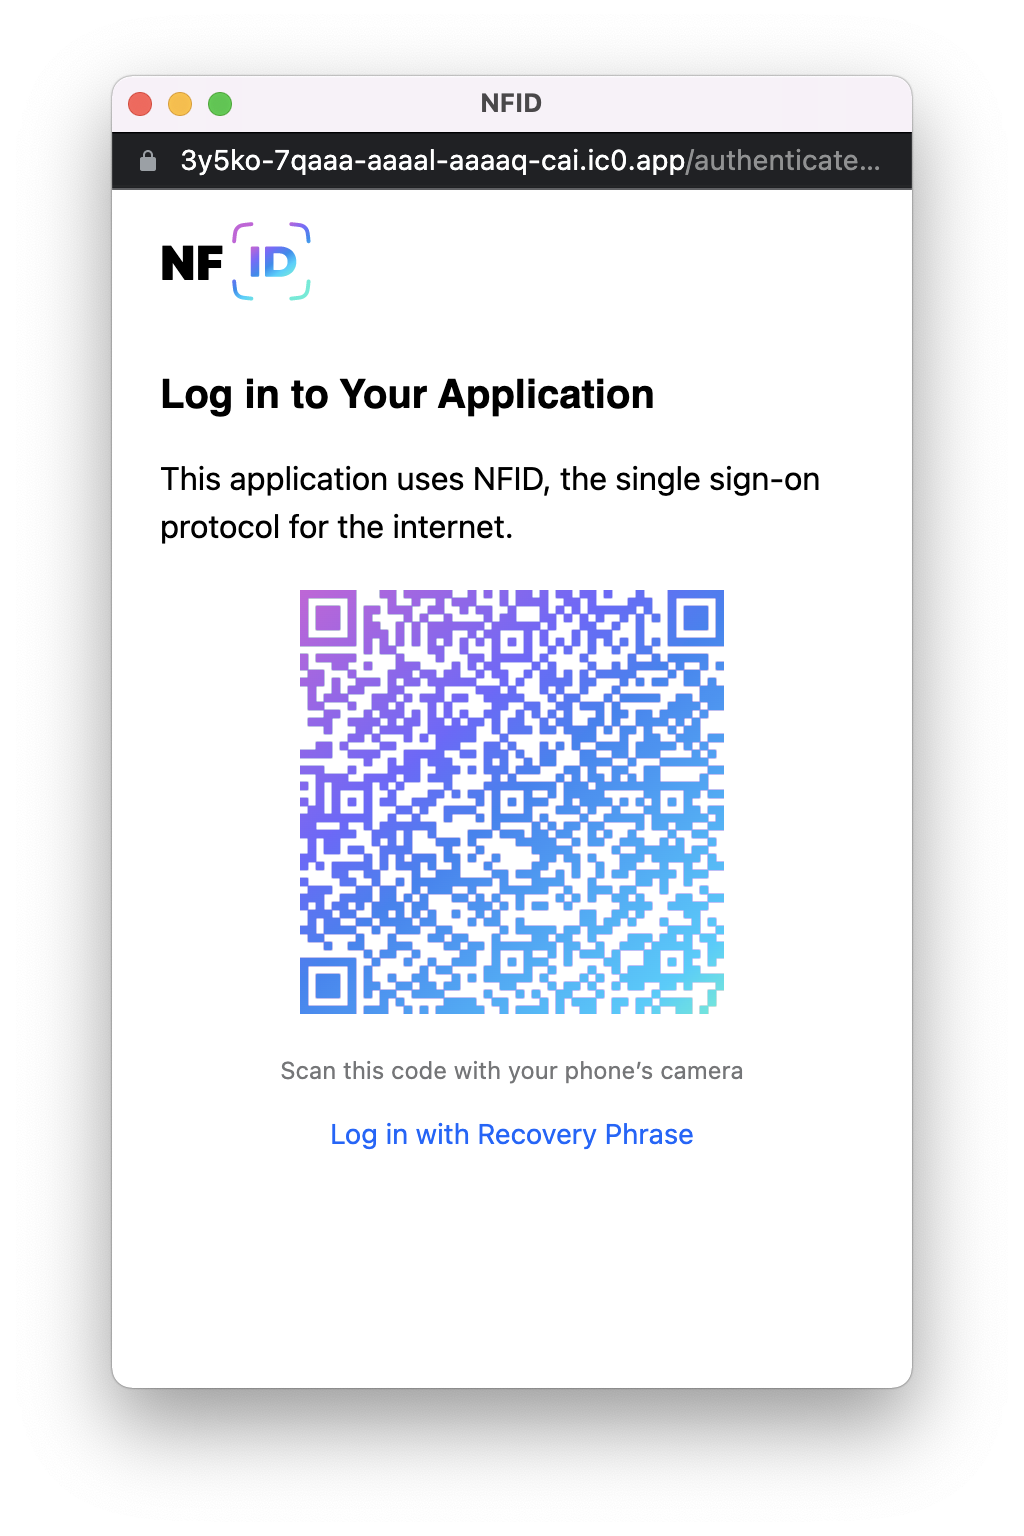
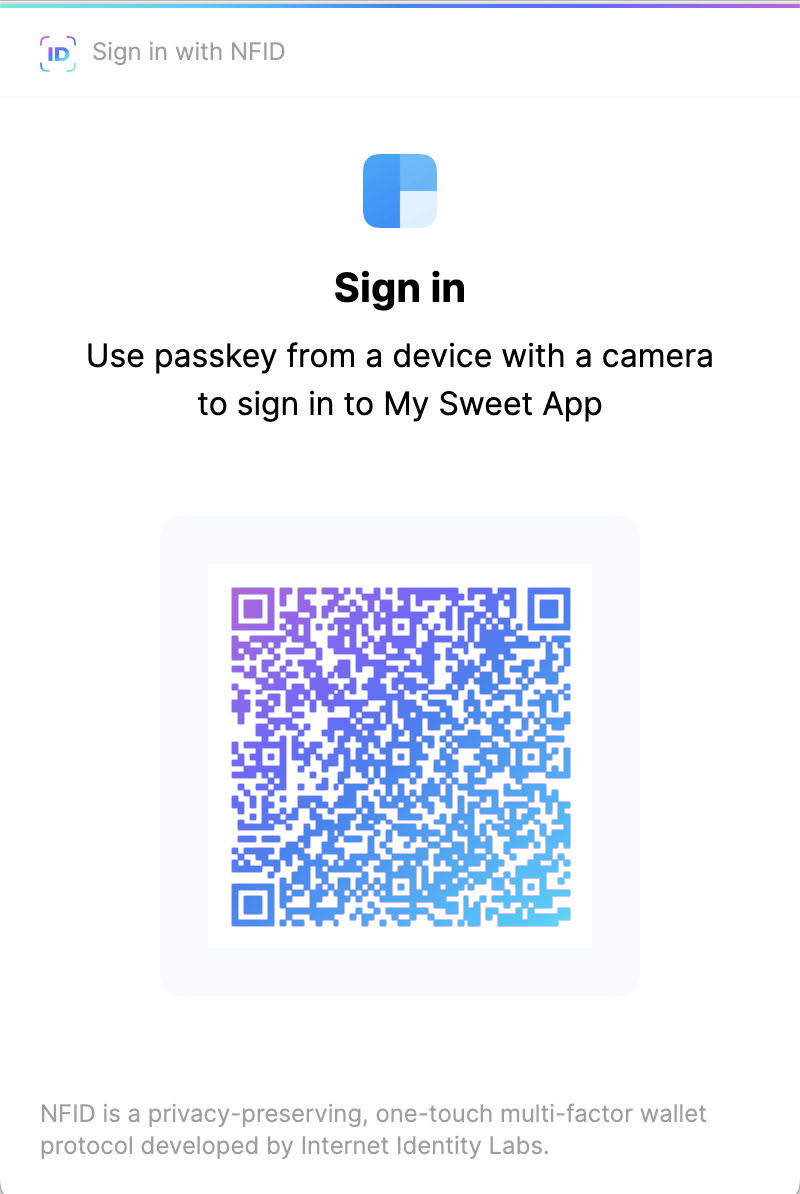
v0.1 updates

Changed region(s): [[0.0, 0.0, 1.0, 0.9606], [0.1562, 0.1549, 0.3125, 0.1859]]

diff --git a/content/en/new-user-auth.md b/content/en/new-user-auth.md
@@ -15,16 +15,16 @@ You don’t need to manage the registration status of users or devices, and expl
 When a new user gets to your application without a previously registered NFID, they will need a FIDO-based device to create one.
 
 ### User starts on desktop
-Upon clicking the button to Sign in with NFID, users will be presented with a QR code to scan with their phone.
+Upon clicking the button to Sign in with NFID, users will be presented with an option to scan a QR code with their phone or other sign in options, which at the moment is simply a method to recover a cleared local storage.
+<img src="sign-in-options.png" style="width:200px;margin:auto;"></img>
 <img src="qr-code-desktop.png" style="width:200px;margin:auto;"></img>
 The web page will open the NFID registration flow where they'll go through the following steps:
 - Create a WebAuthn keypair (either with the device biometric or security key)
 - Enter captcha
-- Sync the public key of their WebAuthn keypair
-- Copy seed phrase and continue to log in to your app
+- Sync the public key of their WebAuthn keypair and sign in to the app
 
 If the user's desktop computer supports FIDO, users will be prompted with a question whether they want to log in faster on this computer.
-<img src="log-in-faster.png" style="width:200px;margin:auto;"></img>
+<img src="sign-in-faster.png" style="width:200px;margin:auto;"></img>
 As on the phone, users will have the ability register this computer to their list of trusted devices they can use WebAuthn to authenticate with.
 
 If the user chose not to register their computer in this step, they'll be able to do so later.
@@ -36,7 +36,6 @@ Upon clicking the button to Sign in with NFID, users will be navigated to the NF
 <img src="unknown-mobile.png" style="width:200px;margin:auto;"></img>
 - Create a WebAuthn keypair (either with the device biometric or security key)
 - Enter captcha
-- Sync the public key of their WebAuthn keypair
-- Copy seed phrase and continue to log in to your app
+- Sync the public key of their WebAuthn keypair and sign in to the app
 
 At this point, you have the delegate identity with their principal ID.

diff --git a/content/en/login_ic.md b/content/en/login_ic.md
@@ -12,9 +12,9 @@ This guide assumes an Internet Computer application exists to integrate NFID wit
 ## Replacing existing identity provider
 If you already have authentication set up in your Internet Computer app and want to switch your identity provider to NFID, simply change the existing `identityProvider` URL in your `authClient` to:
 ```
-https://nfid.one/authenticate/?applicationName={YOUR%20APPLICATION%20NAME}#authorize
+https://nfid.one/authenticate/?applicationName={YOUR%20APPLICATION%20NAME}&applicationLogo={YOUR%20LOGO%20URL}#authorize
 ``` 
-where `{YOUR%20APPLICATION%20NAME}` is the name you'd like displayed in the NFID authentication window.
+where `{YOUR%20APPLICATION%20NAME}` is the name you'd like displayed in the NFID authentication window, and {YOUR%20LOGO%20URL} is the URL for a 37x37px logo of your application.
 <img src="account_selection_screen.png" style="width:200px;margin:auto;"></img>
 
 ## Migrating existing users
@@ -28,7 +28,7 @@ If you'd like to get started sooner, just know that this is the process and it i
 We've added an option for authentication windows to open in a new window. Just pass a new variable, `windowOpenerFeatures` with html options (like these default options we recommend passing) into your `authClient`:
 
 ```js
-identityProvider: "https://nfid.one/authenticate/?applicationName={YOUR%20APPLICATION%20NAME}#authorize",
+identityProvider: "https://nfid.one/authenticate/?applicationName={YOUR%20APPLICATION%20NAME}&applicationLogo={YOUR%20LOGO%20URL}#authorize",
 windowOpenerFeatures: 
   `left=${window.screen.width / 2 - 200}, `+
   `top=${window.screen.height / 2 - 300},` +

diff --git a/content/en/existing-user-auth.md b/content/en/existing-user-auth.md
@@ -13,6 +13,6 @@ As the application developer, you can configure how many accounts each NFID can 
 
 If you allow more than one, users will need to unlock their NFID first and select the account with which they want to continue.
 <img src="unlock-nfid.png" style="width:200px;margin:auto;"></img>
-<img src="account-selection.png" style="width:200px;margin:auto;"></img>
+<img src="account_selection_screen.png" style="width:200px;margin:auto;"></img>
 
 Once an account is selected, you will receive the delegate identity with its principal ID.
